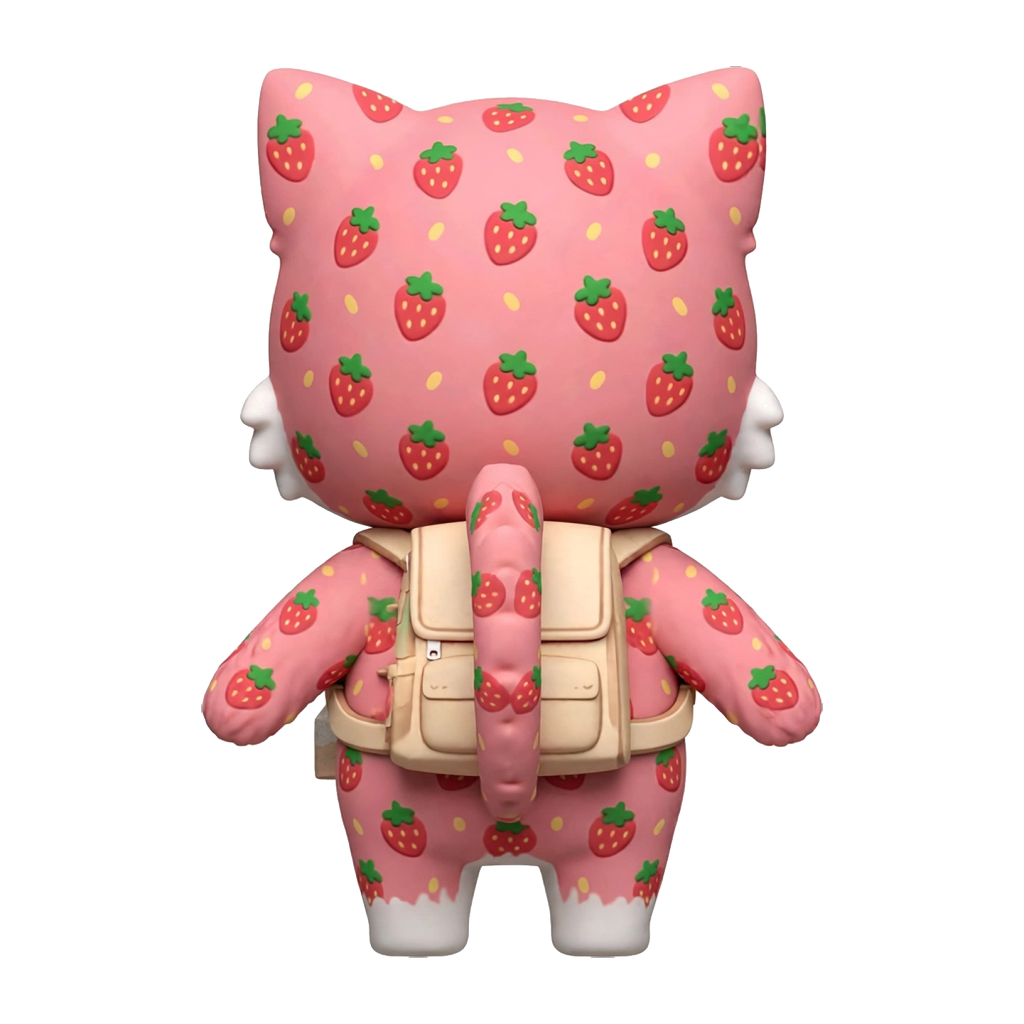
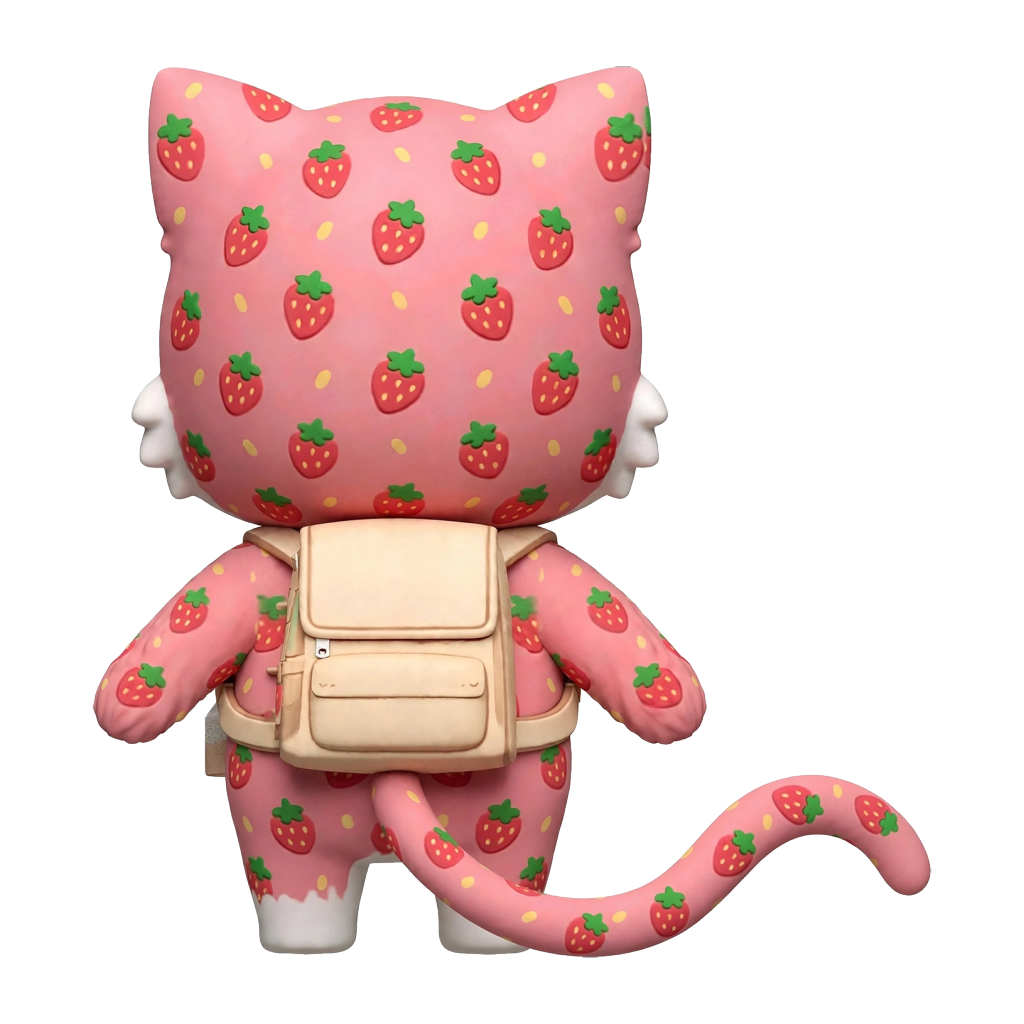
art(neko): arms3 gave two tails (side/back tail directions disagree); back view needed for the backpack -> request a back view with the tail in the mid plane
Claude-Session: https://claude.ai/code/session_01Bp5TxBHK1Ff9PJZ5NmToxW

diff --git a/art/prototypes/avatar/hunyuan-run-mv-char-noback.py b/art/prototypes/avatar/hunyuan-run-mv-char-noback.py
@@ -1,0 +1,76 @@
+# 後ろの絵を使わない版（2026-11-26 ねこ: 横と後ろでしっぽの向きが食い違い、しっぽが 2 本できたため）。
+# キャラの名前を渡して使う版（2026-11-25。中身は hunyuan-run-mv-kirin.py と同じ。入力 <名前>-front/side/back-rgba.png、出力 mogumo/<名前>_<ラベル>_*）。
+# 使い方: python run_char_mv.py <名前> [seed] [ラベル]   例: python run_char_mv.py neko 123 n123
+# hunyuan-run.py（1 枚版）からの変更は 3 か所: ①絵を 3 枚読む ②形を作るノードを Hy3DGenerateMeshMultiView に ③モデルの名前。
+# 使い方（Windows 側の Python で）: python run_ref_mv.py [seed] [ラベル] [横の絵の入れ方] [モデルのファイル名] [手数]
+#   横の絵の入れ方: right（そのまま right に入れる。既定）／ left（左右を返した絵を left に入れる）／ none（横の絵を使わない）
+#   例: python run_ref_mv.py 123 mv123 right
+# 向きの決まり（Tencent 公式の見本画像で確認 2026-11-11）: left ＝ キャラが画面の左を向いた横顔。参考画像の横の絵は右を向いているので right。
+# ComfyUI は 127.0.0.1:8188 で起動しておく（--disable-pinned-memory を付ける）。
+# 入力の絵は ComfyUI/input に置く: apose2-front-rgba.png・boy-ref-side-rgba.png・boy-ref-side-mirror-rgba.png・apose2-back-rgba.png
+# できる物: ComfyUI/output/mogumo/boy_<ラベル>_shape_*.glb（形だけ）・boy_<ラベル>_textured_*.glb（色付き。色は区分けの手がかりに使う）
+import json, sys, time, urllib.request
+name = sys.argv[1]
+seed = int(sys.argv[2]) if len(sys.argv) > 2 else 123
+tag = sys.argv[3] if len(sys.argv) > 3 else f'mv{seed}'
+side = 'right'
+model = 'hunyuan3d-dit-v2-mv-fp16.safetensors'
+steps = 50
+image = f'{name}-front-rgba.png'
+CAM = ['0, 90, 180, 270, 0, 180', '0, 0, 0, 0, 90, -90', '1, 0.1, 0.5, 0.1, 0.05, 0.05', 1.45, 1.2]
+g = {
+  'img': ('LoadImage', {'image': image}),
+  'obj': ('InvertMask', {'mask': ['img', 1]}),
+  'model': ('Hy3DModelLoader', {'model': model, 'attention_mode': 'sdpa'}),
+  # --- 3 枚入力: 絵を 518x518 にして、透明の情報（どこがキャラか）を付けて渡す ---
+  'imgB': ('LoadImage', {'image': f'{name}-back-rgba.png'}),
+  'sF': ('ImageScale', {'image': ['img', 0], 'upscale_method': 'lanczos', 'width': 518, 'height': 518, 'crop': 'disabled'}),
+  'sB': ('ImageScale', {'image': ['imgB', 0], 'upscale_method': 'lanczos', 'width': 518, 'height': 518, 'crop': 'disabled'}),
+  'jF': ('JoinImageWithAlpha', {'image': ['sF', 0], 'alpha': ['img', 1]}),
+  'jB': ('JoinImageWithAlpha', {'image': ['sB', 0], 'alpha': ['imgB', 1]}),
+  'gen': ('Hy3DGenerateMeshMultiView', {'pipeline': ['model', 0], 'guidance_scale': 5.5, 'steps': steps, 'seed': seed, 'front': ['jF', 0]}),
+  'vae': ('Hy3DVAEDecode', {'vae': ['model', 1], 'latents': ['gen', 0], 'box_v': 1.01, 'octree_resolution': 384, 'num_chunks': 32000, 'mc_level': 0.0, 'mc_algo': 'mc', 'force_offload': True}),
+  'post': ('Hy3DPostprocessMesh', {'trimesh': ['vae', 0], 'remove_floaters': True, 'remove_degenerate_faces': True, 'reduce_faces': True, 'max_facenum': 30000, 'smooth_normals': False}),
+  'shape_out': ('Hy3DExportMesh', {'trimesh': ['post', 0], 'filename_prefix': f'mogumo/{name}_{tag}_shape', 'file_format': 'glb', 'save_file': True}),
+  'uv': ('Hy3DMeshUVWrap', {'trimesh': ['post', 0]}),
+  'cam': ('Hy3DCameraConfig', dict(zip(['camera_azimuths', 'camera_elevations', 'view_weights', 'camera_distance', 'ortho_scale'], CAM))),
+  'render': ('Hy3DRenderMultiView', {'trimesh': ['uv', 0], 'render_size': 1024, 'texture_size': 2048, 'camera_config': ['cam', 0], 'normal_space': 'world'}),
+  'bgmask': ('SolidMask', {'value': 0.8, 'width': 1024, 'height': 1024}),
+  'bg': ('MaskToImage', {'mask': ['bgmask', 0]}),
+  'comp': ('ImageCompositeMasked', {'destination': ['bg', 0], 'source': ['img', 0], 'x': 0, 'y': 0, 'resize_source': False, 'mask': ['obj', 0]}),
+  'dmodel': ('DownloadAndLoadHy3DDelightModel', {'model': 'hunyuan3d-delight-v2-0'}),
+  'dsched': ('Hy3DDiffusersSchedulerConfig', {'pipeline': ['dmodel', 0], 'scheduler': 'Euler A', 'sigmas': 'default'}),
+  'delight': ('Hy3DDelightImage', {'delight_pipe': ['dmodel', 0], 'image': ['comp', 0], 'steps': 50, 'width': 512, 'height': 512, 'cfg_image': 1.0, 'seed': 0, 'scheduler': ['dsched', 0]}),
+  'pmodel': ('DownloadAndLoadHy3DPaintModel', {'model': 'hunyuan3d-paint-v2-0'}),
+  'psched': ('Hy3DDiffusersSchedulerConfig', {'pipeline': ['pmodel', 0], 'scheduler': 'Euler A', 'sigmas': 'default'}),
+  'mv': ('Hy3DSampleMultiView', {'pipeline': ['pmodel', 0], 'ref_image': ['delight', 0], 'normal_maps': ['render', 0], 'position_maps': ['render', 1], 'view_size': 512, 'steps': 25, 'seed': 1024, 'camera_config': ['cam', 0], 'scheduler': ['psched', 0]}),
+  'bake': ('Hy3DBakeFromMultiview', {'images': ['mv', 0], 'renderer': ['render', 2], 'camera_config': ['cam', 0]}),
+  'vinp': ('Hy3DMeshVerticeInpaintTexture', {'texture': ['bake', 0], 'mask': ['bake', 1], 'renderer': ['bake', 2]}),
+  'cvinp': ('CV2InpaintTexture', {'texture': ['vinp', 0], 'mask': ['vinp', 1], 'inpaint_radius': 3, 'inpaint_method': 'ns'}),
+  'apply': ('Hy3DApplyTexture', {'texture': ['cvinp', 0], 'renderer': ['vinp', 2]}),
+  'out': ('Hy3DExportMesh', {'trimesh': ['apply', 0], 'filename_prefix': f'mogumo/{name}_{tag}_textured', 'file_format': 'glb', 'save_file': True}),
+  'mvsave': ('SaveImage', {'images': ['mv', 0], 'filename_prefix': f'mogumo/{name}_{tag}_views'}),
+}
+if side in ('right', 'left'):
+    g['imgS'] = ('LoadImage', {'image': f'{name}-side-rgba.png'})
+    g['sS'] = ('ImageScale', {'image': ['imgS', 0], 'upscale_method': 'lanczos', 'width': 518, 'height': 518, 'crop': 'disabled'})
+    g['jS'] = ('JoinImageWithAlpha', {'image': ['sS', 0], 'alpha': ['imgS', 1]})
+    g['gen'][1][side] = ['jS', 0]
+print('views: front + back' + (f' + {side}' if side in ('right', 'left') else ''), '| model', model, '| steps', steps, '| seed', seed, flush=True)
+prompt = {k: {'class_type': c, 'inputs': i} for k, (c, i) in g.items()}
+req = urllib.request.Request('http://127.0.0.1:8188/prompt', json.dumps({'prompt': prompt}).encode(), {'Content-Type': 'application/json'})
+try:
+    pid = json.load(urllib.request.urlopen(req))['prompt_id']
+except urllib.error.HTTPError as e:
+    print('REJECTED', e.read().decode()[:2000]); sys.exit(1)
+t0 = time.time()
+print('queued', pid, flush=True)
+while True:
+    time.sleep(5)
+    h = json.load(urllib.request.urlopen(f'http://127.0.0.1:8188/history/{pid}'))
+    if pid in h:
+        st = h[pid]['status']
+        print('DONE' if st.get('completed') else 'FAILED', st.get('status_str'), f'{time.time()-t0:.0f}s', flush=True)
+        for m in st.get('messages', []):
+            if m[0] == 'execution_error': print(json.dumps(m[1])[:1500])
+        break

diff --git a/handoff/to-shiro/2026-11-26-neko-tail-back.md b/handoff/to-shiro/2026-11-26-neko-tail-back.md
@@ -1,0 +1,19 @@
+状態: 未対応
+
+# 05 いちごミルクねこ: 後ろの絵のしっぽの向き（1 枚だけ）（Claude Code から、ギルベルト／ミシェーラへ）
+
+- 日付: 2026-11-26
+- 経緯: `arms3-side.png`（横）と `arms3-back.png`（後ろ）で 3D を作ったところ、**しっぽが左右に 2 本できた**（種 3 つとも）。横の絵ではしっぽが「後ろ」へ伸びるのに、後ろの絵では「向かって右」へ流れていて、2 枚の向きが食い違ったため。前の依頼で「後ろから見て右へ流す」と書いたのは Claude の間違いでした。すみません。
+- 後ろの絵を使わずに作るとしっぽは 1 本になったが、**背中のリュックが消えた**。なので後ろの絵は必要。
+
+## 描き直す物
+- `art/characters/05-ichigo-milk-neko/ref/arms4-back.png`（1 枚だけ。横 `arms3-side.png` と正面 `arms2-front.png` はそのまま使う）。大きさ・置き方は今までと同じ（1600×1600・白背景・高さ 1420px・足元 y=1500）。
+
+## しっぽの条件
+- **横の絵 `arms3-side.png` のしっぽを、真後ろから見た形**にする。しっぽは体の真ん中の面の中にあり、左右には流れない。
+- 横の絵では、しっぽはお尻から後ろへ伸び、先が上へ巻いている。それを真後ろから見ると、**お尻の真ん中から、こちら（見る人）の方へ伸びて、先が上に巻いた形**が、体の真ん中の縦の線の上に見える（左右対称の位置）。
+- しっぽはリュックより下に見える（リュックに重ならない）。先は腰の高さくらい。
+- リュック・体・柄・色は `arms3-back.png` と同じ。
+
+## 補足
+- できたら、このファイルの状態を「完了」にして、LOG に 1 行お願いします。

diff --git a/handoff/LOG.md b/handoff/LOG.md
@@ -82,3 +82,4 @@
 - 2026-11-25 Claude → ギルベルト／ミシェーラ: 図鑑 v3 の絵（まずラーメン: 背景の町・イラスト 3 通り・ジオラマの 3 方向）（handoff/to-shiro/2026-11-25-zukan-v3-art.md）
 - 2026-11-26 Claude → ギルベルト／ミシェーラ: 05 ねこのしっぽの描き直し（横・後ろ。先が頭にくっついた）（handoff/to-shiro/2026-11-26-neko-tail-redraw.md）
 - 2026-11-26 ギルベルト: 05 ねこのしっぽ描き直し arms3-side/back を納品（zip をセッション経由で送付、配置先 art/characters/05-ichigo-milk-neko/ref/）。返信 handoff/to-claude/2026-11-26-neko-tail-redraw-done.md。要確認なし（凹凸の作り直し・後ろ姿の先の高さとも解消済み）
+- 2026-11-26 Claude → ギルベルト／ミシェーラ: 05 ねこの後ろの絵のしっぽの向き（横と食い違い、しっぽが 2 本できた）（handoff/to-shiro/2026-11-26-neko-tail-back.md）
